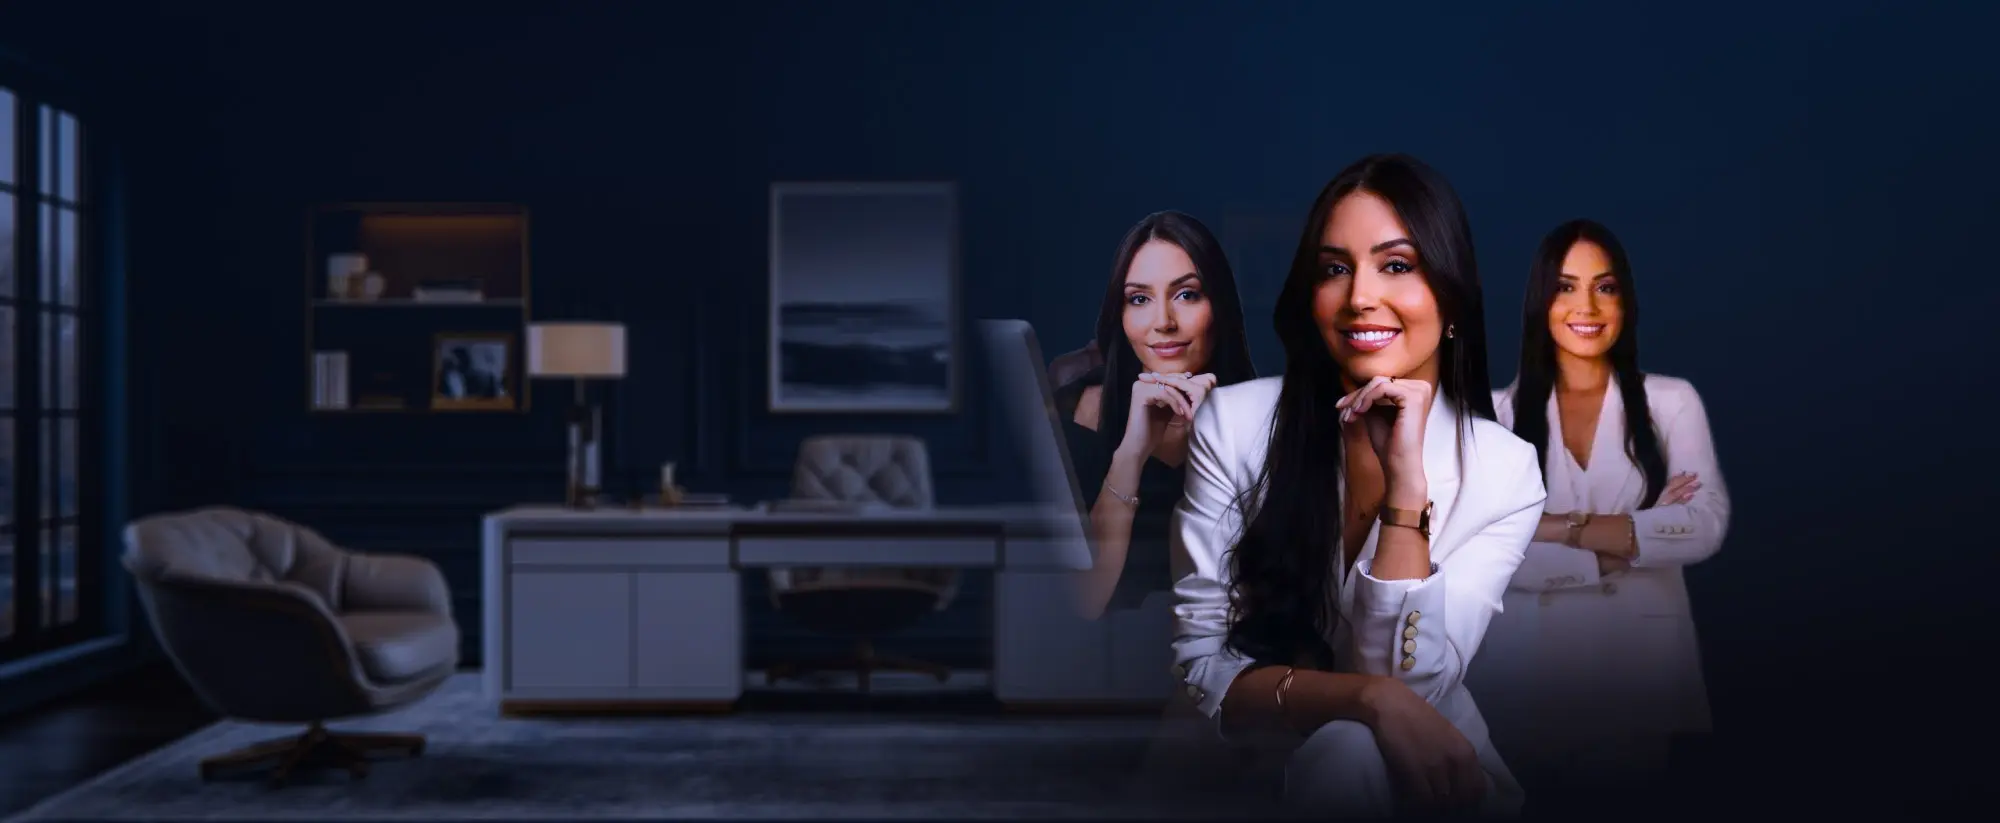
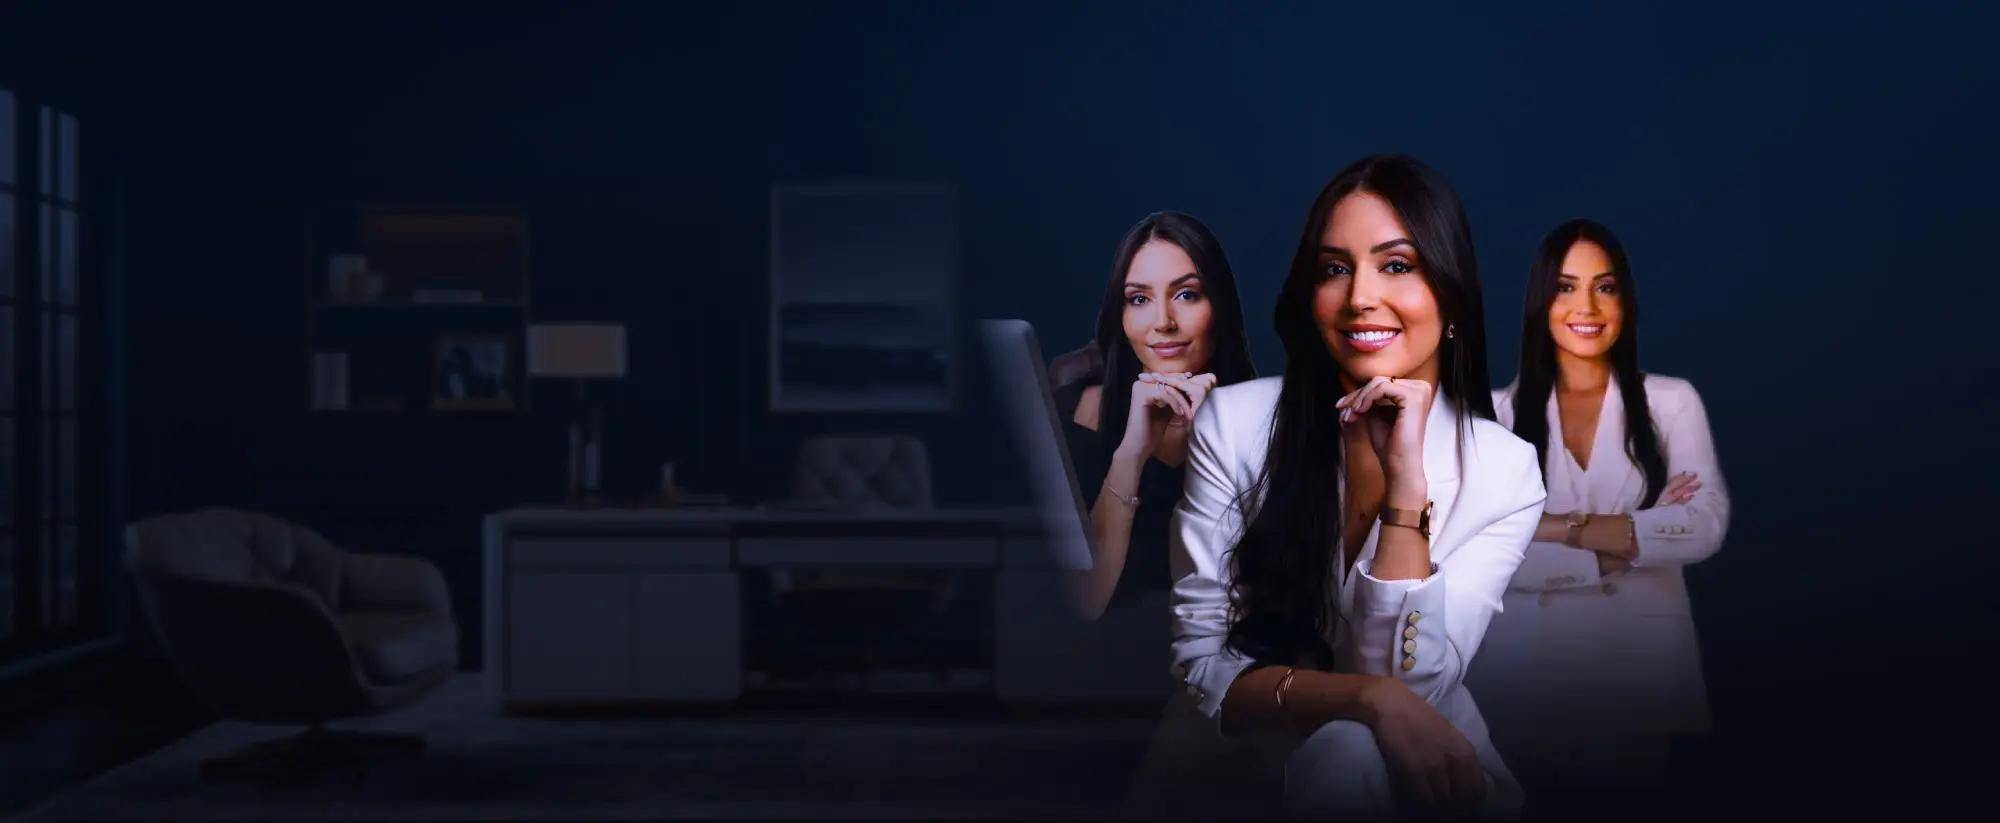
fix: Webp hero

diff --git a/src/content/content.jsx b/src/content/content.jsx
@@ -1,7 +1,7 @@
 import logo from "../assets/imgs/logo/logo.webp";
 import heroImgPhone from "../assets/imgs/hero/personImg.webp";
-import heroImgDesktop from "../assets/imgs/hero/bgHeroInfluencer.png";
-import bgHeroImg from "../assets/imgs/hero/bgHeroInfluencer.jpg";
+import heroImgDesktop from "../assets/imgs/hero/bgHeroInfluencer.webp";
+import bgHeroImg from "../assets/imgs/hero/bgHeroInfluencer.webp";
 import heroDefaultImg from "../assets/imgs/hero/lawHero.jpg";
 import backgroundPersonMobile from "../assets/imgs/hero/bgHeroMobile.webp";
 
